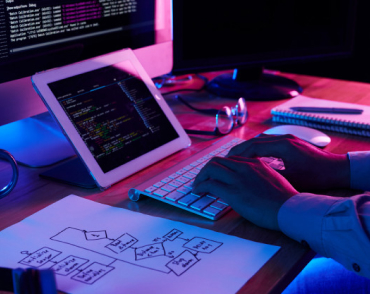
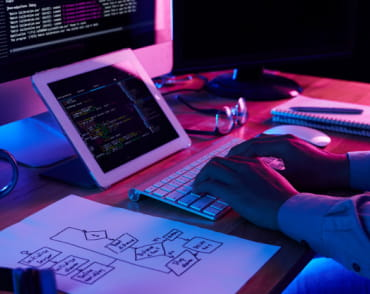
Improve the images size with Squoosh

diff --git a/index.html b/index.html
@@ -91,16 +91,16 @@
             <h2>Наша команда</h2>
             <ul>
                 <li>
-                    <img src="./images/teamcard1.png" alt="Фото Игоря Демянова" width="270">
+                    <img src="./images/teamcard1.jpeg" alt="Фото Игоря Демянова" width="270">
                 </li>
                 <li>
-                    <img src="./images/teamcard2.png" alt="Фото Ольшги Репеной" width="270">
+                    <img src="./images/teamcard2.jpeg" alt="Фото Ольшги Репеной" width="270">
                 </li>
                 <li>
-                    <img src="./images/teamcard3.png" alt="Фото Николая Тарасова" width="270">
+                    <img src="./images/teamcard3.jpeg" alt="Фото Николая Тарасова" width="270">
                 </li>
                 <li>
-                    <img src="./images/teamcard4.png" alt="Фото Михаила Ермакова" width="270">
+                    <img src="./images/teamcard4.jpeg" alt="Фото Михаила Ермакова" width="270">
                 </li>
             </ul>
         </section>
